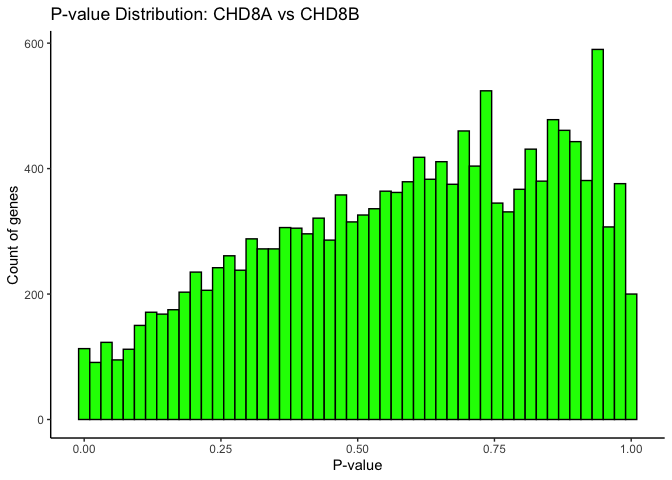
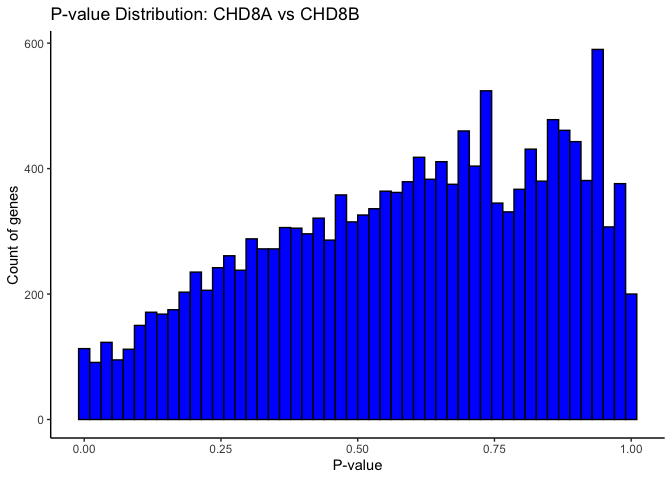
Second commit

diff --git a/analysis_assignment.md b/analysis_assignment.md
@@ -781,7 +781,7 @@ plotMA(res_A_vs_B, main = "MA Plot: CHD8A vs CHD8B")
 res_A_vs_B_df <- as.data.frame(res_A_vs_B)
 
 ggplot(res_A_vs_B_df, aes(x = pvalue)) +
-  geom_histogram(bins = 50, fill = "green", color = "black") +
+  geom_histogram(bins = 50, fill = "blue", color = "black") +
   theme_classic() +
   xlab("P-value") +
   ylab("Count of genes") +
